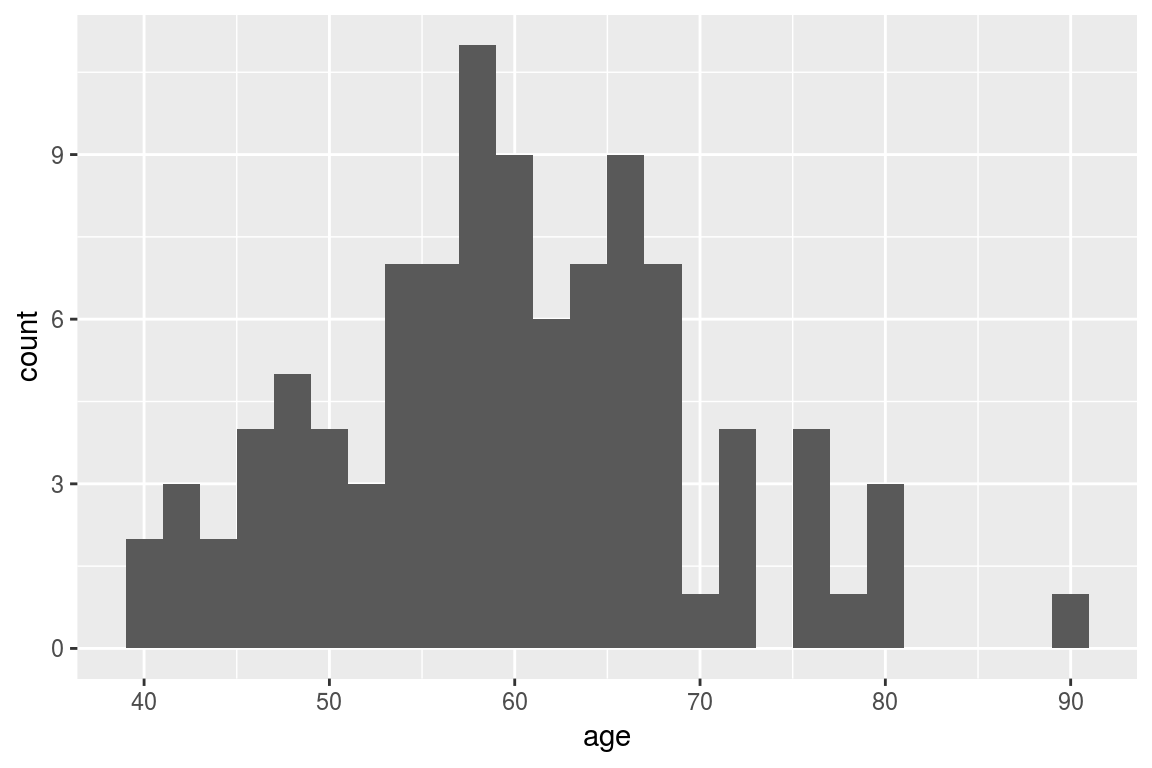
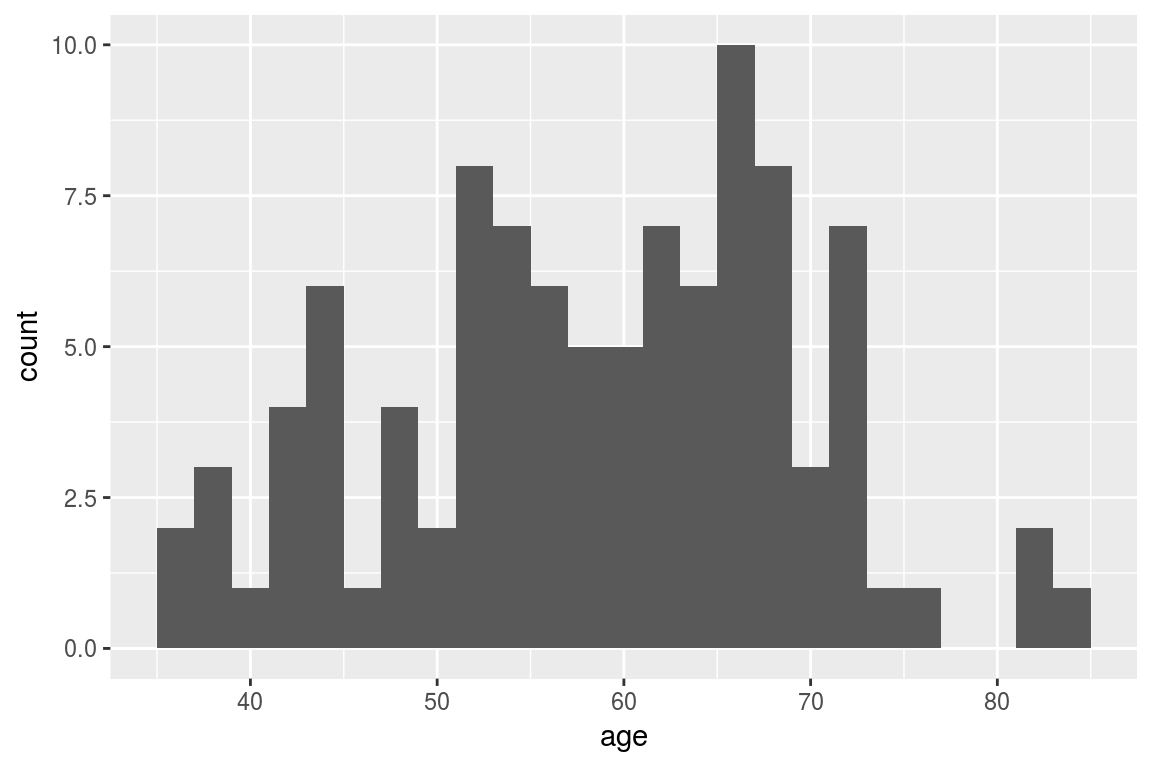
:wrench:make function internal

diff --git a/docs/articles/g_heterogeneity.html b/docs/articles/g_heterogeneity.html
@@ -81,16 +81,16 @@
 <pre><code>## # A tibble: 100 x 2
 ##      age   sex
 ##    &lt;dbl&gt; &lt;int&gt;
-##  1    80     1
-##  2    66     0
-##  3    69     0
-##  4    61     1
-##  5    56     1
+##  1    35     1
+##  2    73     1
+##  3    67     1
+##  4    69     1
+##  5    44     0
 ##  6    53     1
-##  7    44     1
-##  8    60     1
-##  9    76     1
-## 10    58     1
+##  7    57     1
+##  8    37     0
+##  9    51     1
+## 10    61     0
 ## # ... with 90 more rows</code></pre>
 <div class="sourceCode"><pre class="sourceCode r"><code class="sourceCode r"><span class="kw">library</span>(ggplot2)
 <span class="kw">ggplot</span>(tab_indiv, <span class="kw">aes</span>(<span class="dt">x =</span> age)) +
@@ -119,27 +119,27 @@
 ## * Values distribution:
 ## 
 ##                                  Min.      1st Qu.      Median        Mean
-## standard - Cost          4.254235e+02  613.8364635 665.3485485 706.6449827
-## standard - Effect        4.554756e+00   25.5696426  27.3769142  25.7989316
+## standard - Cost          450.15881156  605.0062810 630.4692714 699.5059081
+## standard - Effect          7.47256790   25.5696426  27.3769142  26.4674988
 ## standard - Cost Diff.               -            -           -           -
 ## standard - Effect Diff.             -            -           -           -
 ## standard - Icer                     -            -           -           -
-## np1 - Cost               5.872463e+02  637.9508204 652.9595311 664.5163409
-## np1 - Effect             4.561086e+00   25.8299343  27.7656911  26.0726018
-## np1 - Cost Diff.        -1.604799e+02 -129.4829089 -12.5720169 -42.1286418
-## np1 - Effect Diff.       6.330508e-03    0.1948185   0.2334634   0.2736702
-## np1 - Icer              -3.522349e+02 -333.0519971 -61.9397777 233.4776184
+## np1 - Cost               593.80297968  635.5509751 642.4744757 662.4795257
+## np1 - Effect               7.49009703   25.8299343  27.7656911  26.7395201
+## np1 - Cost Diff.        -164.88137326 -129.4829089  12.0052043 -37.0263824
+## np1 - Effect Diff.         0.01752913    0.1948185   0.2334634   0.2720213
+## np1 - Icer              -354.32431375 -333.0519971  51.0908895  73.1330456
 ##                             3rd Qu.         Max.
-## standard - Cost         828.5434528 8.718854e+02
-## standard - Effect        29.0749005 3.130710e+01
+## standard - Cost         828.5434528  878.0433890
+## standard - Effect        29.2971568   31.5986556
 ## standard - Cost Diff.             -            -
 ## standard - Effect Diff.           -            -
 ## standard - Icer                   -            -
-## np1 - Cost              699.0605439 7.114056e+02
-## np1 - Effect             29.5008365 3.154057e+01
-## np1 - Cost Diff.         24.1143568 1.618227e+02
-## np1 - Effect Diff.        0.3887769 4.556047e-01
-## np1 - Icer              115.6325465 2.556236e+04
+## np1 - Cost              699.0605439  713.1620157
+## np1 - Effect             29.7280141   31.8353665
+## np1 - Cost Diff.         30.5446941  143.6441681
+## np1 - Effect Diff.        0.3887769    0.4653403
+## np1 - Icer              156.7853582 8194.5991768
 ## 
 ## * Combined result:
 ## 
@@ -158,8 +158,8 @@
 ## Values:
 ## 
 ##           utility     cost
-## standard 25798.93 706645.0
-## np1      26072.60 664516.3
+## standard 26467.50 699505.9
+## np1      26739.52 662479.5
 ## 
 ## Efficiency frontier:
 ## 
@@ -168,7 +168,7 @@
 ## Differences:
 ## 
 ##     Cost Diff. Effect Diff.      ICER     Ref.
-## np1  -42.12864    0.2736702 -153.9395 standard</code></pre>
+## np1  -37.02638    0.2720213 -136.1158 standard</code></pre>
 <p>The variation of cost or effect can then be plotted.</p>
 <div class="sourceCode"><pre class="sourceCode r"><code class="sourceCode r"><span class="kw">plot</span>(res_h, <span class="dt">result =</span> <span class="st">"effect"</span>, <span class="dt">binwidth =</span> <span class="dv">5</span>)</code></pre></div>
 <p><img src="g_heterogeneity_files/figure-html/unnamed-chunk-7-1.png" width="576" style="display: block; margin: auto;"></p>
@@ -193,18 +193,18 @@
 <p>Weights can be used in the analysis by including an optional column <code>.weights</code> in the new data to specify the respective weights of each strata in the target population.</p>
 <div class="sourceCode"><pre class="sourceCode r"><code class="sourceCode r">tab_indiv_w</code></pre></div>
 <pre><code>## # A tibble: 100 x 3
-##      age   sex   .weights
-##    &lt;dbl&gt; &lt;int&gt;      &lt;dbl&gt;
-##  1    66     0 0.50984660
-##  2    46     1 0.98097236
-##  3    50     0 0.08996966
-##  4    50     1 0.14479420
-##  5    64     0 0.99480153
-##  6    31     0 0.62826544
-##  7    64     1 0.57866123
-##  8    68     0 0.95068361
-##  9    64     1 0.83066745
-## 10    54     1 0.05736487
+##      age   sex  .weights
+##    &lt;dbl&gt; &lt;int&gt;     &lt;dbl&gt;
+##  1    73     0 0.5700823
+##  2    69     1 0.9149494
+##  3    47     1 0.5937281
+##  4    61     0 0.3806231
+##  5    45     1 0.9258920
+##  6    43     1 0.5500597
+##  7    58     1 0.4333086
+##  8    56     0 0.5971116
+##  9    56     1 0.8927109
+## 10    61     1 0.3063004
 ## # ... with 90 more rows</code></pre>
 <div class="sourceCode"><pre class="sourceCode r"><code class="sourceCode r">res_w &lt;-<span class="st"> </span><span class="kw">update</span>(res_mod, <span class="dt">newdata =</span> tab_indiv_w)</code></pre></div>
 <pre><code>## Updating strategy 'standard'...</code></pre>
@@ -214,35 +214,35 @@
 ## 
 ## * Weigths distribution:
 ## 
-##    Min. 1st Qu.  Median    Mean 3rd Qu.    Max. 
-## 0.01366 0.34115 0.53628 0.52586 0.73818 0.99480 
+##     Min.  1st Qu.   Median     Mean  3rd Qu.     Max. 
+## 0.005958 0.343885 0.545415 0.530120 0.743688 0.938902 
 ## 
-## Total weight: 52.58621
+## Total weight: 53.01202
 ## 
 ## * Values distribution:
 ## 
-##                                  Min.      1st Qu.      Median        Mean
-## standard - Cost          485.85297365  605.0062810 629.8357485 689.4663065
-## standard - Effect          9.32287610   25.5696426  27.0212268  25.7783420
-## standard - Cost Diff.               -            -           -           -
-## standard - Effect Diff.             -            -           -           -
-## standard - Icer                     -            -           -           -
-## np1 - Cost               603.34263272  635.5509751 642.6341770 659.6489195
-## np1 - Effect               9.38064927   25.8299343  27.3837368  26.0370346
-## np1 - Cost Diff.        -155.93829747 -110.7286273  12.7340198 -29.8173869
-## np1 - Effect Diff.         0.04405769    0.1924777   0.2294328   0.2586926
-## np1 - Icer              -349.93447295 -316.4394659  54.5439570 116.2434278
-##                             3rd Qu.         Max.
-## standard - Cost         802.3426777  871.8854128
-## standard - Effect        29.0749005   31.7692206
-## standard - Cost Diff.             -            -
-## standard - Effect Diff.           -            -
-## standard - Icer                   -            -
-## np1 - Cost              691.6140504  711.4055539
-## np1 - Effect             29.5008365   32.0078346
-## np1 - Cost Diff.         38.0610908  143.6441681
-## np1 - Effect Diff.        0.3499204    0.4556047
-## np1 - Icer              214.6462320 8194.5991768
+##                                 Min.      1st Qu.      Median        Mean
+## standard - Cost          565.3706618  605.0062810 626.9720129 689.5618486
+## standard - Effect         14.3082870   25.6577436  27.7806580  26.9085168
+## standard - Cost Diff.              -            -           -           -
+## standard - Effect Diff.            -            -           -           -
+## standard - Icer                    -            -           -           -
+## np1 - Cost               624.7960167  635.5509751 641.5229814 659.5898633
+## np1 - Effect              14.4398232   25.9195630  27.9754765  27.1720659
+## np1 - Cost Diff.        -160.4798588 -110.7286273  14.5727707 -29.9719852
+## np1 - Effect Diff.         0.1315362    0.1948185   0.2214442   0.2635492
+## np1 - Icer              -352.2348902 -316.4394659  82.0897023 -23.2613404
+##                             3rd Qu.        Max.
+## standard - Cost         802.5788988 871.8854128
+## standard - Effect        29.9662522  31.5986556
+## standard - Cost Diff.             -           -
+## standard - Effect Diff.           -           -
+## standard - Icer                   -           -
+## np1 - Cost              691.6811866 711.4055539
+## np1 - Effect             30.4098525  31.8353665
+## np1 - Cost Diff.         30.5446941  84.5375046
+## np1 - Effect Diff.        0.3502707   0.4556047
+## np1 - Icer              156.7853582 918.5122572
 ## 
 ## * Combined result:
 ## 
@@ -261,8 +261,8 @@
 ## Values:
 ## 
 ##           utility     cost
-## standard 25778.34 689466.3
-## np1      26037.03 659648.9
+## standard 26908.52 689561.8
+## np1      27172.07 659589.9
 ## 
 ## Efficiency frontier:
 ## 
@@ -271,7 +271,7 @@
 ## Differences:
 ## 
 ##     Cost Diff. Effect Diff.      ICER     Ref.
-## np1  -29.81739    0.2586926 -115.2619 standard</code></pre>
+## np1  -29.97199    0.2635492 -113.7245 standard</code></pre>
 </div>
 <div id="parallel-computing" class="section level2">
 <h2 class="hasAnchor">

diff --git a/docs/articles/e_probabilistic.html b/docs/articles/e_probabilistic.html
@@ -242,14 +242,14 @@ state_D &lt;-<span class="st"> </span><span class="kw"><a href="../reference/def
 ## Values:
 ## 
 ##      cost_health cost_drugs cost_total life_year
-## comb   101251204   79599252   94808861 18239.975
-## mono    50573004   20246228   50084969  8887.721
+## comb   102386839   79976266   95596089 18326.367
+## mono    51987407   20637783   50874803  9059.606
 ## 
 ## Net monetary benefit difference:
 ## 
-##       1000    5000     6000    10000
-## 1 35371.64    0.00     0.00     0.00
-## 2     0.00 2037.38 11389.63 48798.65
+##       1000     5000     6000    10000
+## 1 35454.53    0.000     0.00     0.00
+## 2     0.00 1612.517 10879.28 47946.32
 ## 
 ## Efficiency frontier:
 ## 
@@ -258,7 +258,7 @@ state_D &lt;-<span class="st"> </span><span class="kw"><a href="../reference/def
 ## Differences:
 ## 
 ##      Cost Diff. Effect Diff.     ICER Ref.
-## comb   44723.89     9.352254 4782.151 mono</code></pre>
+## comb   44721.29     9.266761 4825.989 mono</code></pre>
 </div>
 <div id="result-interpretation" class="section level2">
 <h2 class="hasAnchor">
@@ -278,6 +278,8 @@ state_D &lt;-<span class="st"> </span><span class="kw"><a href="../reference/def
 <p><img src="e_probabilistic_files/figure-html/unnamed-chunk-11-1.png" width="576" style="display: block; margin: auto;"></p>
 <p>Or on the difference between strategies:</p>
 <div class="sourceCode"><pre class="sourceCode r"><code class="sourceCode r"><span class="kw">plot</span>(pm, <span class="dt">type =</span> <span class="st">"cov"</span>, <span class="dt">diff =</span> <span class="ot">TRUE</span>, <span class="dt">threshold =</span> <span class="dv">5000</span>)</code></pre></div>
+<pre><code>## Warning in compute_prop_var(mgcv::gam(formula = form_nmb, data = .)): Only
+## 99% of variance explained, results may be inaccurate.</code></pre>
 <p><img src="e_probabilistic_files/figure-html/unnamed-chunk-12-1.png" width="384" style="display: block; margin: auto;"></p>
 <p>As usual plots can be modified with the standard <code>ggplot2</code> syntax.</p>
 <div class="sourceCode"><pre class="sourceCode r"><code class="sourceCode r"><span class="kw">library</span>(ggplot2)

diff --git a/docs/reference/define_part_surv.html b/docs/reference/define_part_surv.html
@@ -143,12 +143,12 @@ absolute time units.</p></td>
 )</div><div class='output co'>#&gt; $pfs
 #&gt; &lt;lazy&gt;
 #&gt;   expr: dist_pfs
-#&gt;   env:  &lt;environment: 0x9f02728&gt;
+#&gt;   env:  &lt;environment: 0x764a7a8&gt;
 #&gt; 
 #&gt; $os
 #&gt; &lt;lazy&gt;
 #&gt;   expr: dist_os
-#&gt;   env:  &lt;environment: 0x9f02728&gt;
+#&gt;   env:  &lt;environment: 0x764a7a8&gt;
 #&gt; 
 #&gt; $state_names
 #&gt; progression_free      progression         terminal            death 
@@ -166,12 +166,12 @@ absolute time units.</p></td>
 )</div><div class='output co'>#&gt; <span class='message'>No named state -&gt; generating names.</span></div><div class='output co'>#&gt; $pfs
 #&gt; &lt;lazy&gt;
 #&gt;   expr: dist_pfs
-#&gt;   env:  &lt;environment: 0x9f02728&gt;
+#&gt;   env:  &lt;environment: 0x764a7a8&gt;
 #&gt; 
 #&gt; $os
 #&gt; &lt;lazy&gt;
 #&gt;   expr: dist_os
-#&gt;   env:  &lt;environment: 0x9f02728&gt;
+#&gt;   env:  &lt;environment: 0x764a7a8&gt;
 #&gt; 
 #&gt; $state_names
 #&gt; progression_free      progression         terminal            death 

diff --git a/docs/reference/distributions.html b/docs/reference/distributions.html
@@ -194,7 +194,7 @@ for the given quantiles. See examples</p>
 )</div><div class='output co'>#&gt; [[1]]
 #&gt; function (x) 
 #&gt; stats::qexp(p = x, rate = 0.5)
-#&gt; &lt;environment: 0xa99f150&gt;
+#&gt; &lt;environment: 0x798bac0&gt;
 #&gt; </div><div class='input'>
 </div></pre>
   </div>
